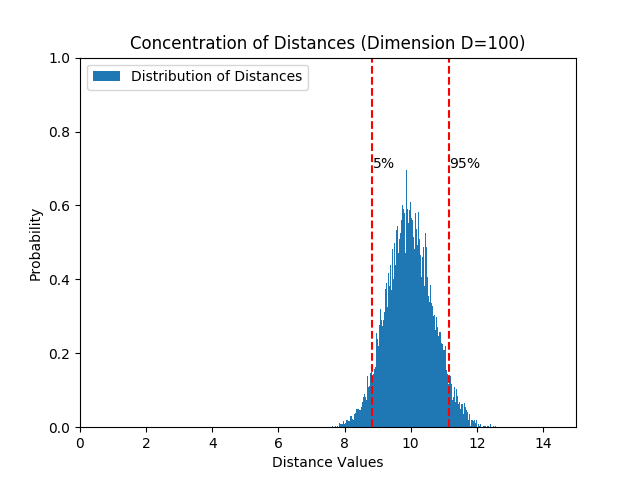
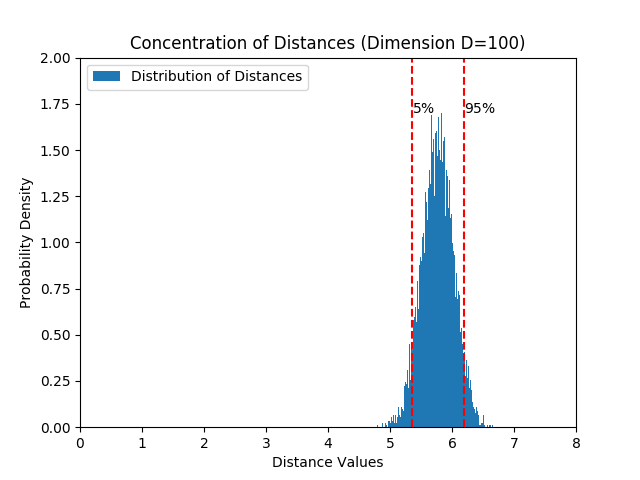
corrected dist in c10

diff --git a/Presentation 1/Code/c10_concentration_of_distances.py b/Presentation 1/Code/c10_concentration_of_distances.py
@@ -12,7 +12,7 @@ df1 = lambda x : get_distances(x,order=2.0)
 
 for dim in dimensions:
 	sigma_data=1.0
-	actual_data = np.random.multivariate_normal( mean=np.zeros(dim), cov=sigma_data**2 * np.eye(dim), size = N ) 
+	actual_data = np.random.uniform(low=0.0, high=1.0, size=(N,dim)) 
 	actual_distances = df1(actual_data) 
 
 	#estimating hyperparameter sigma using thumb rule in paper 
@@ -34,14 +34,14 @@ for dim in dimensions:
 	# ax.plot(dist_vals,kernel_vals2,label="Kernel Values ($\sigma$="+str(sigma2)[:4]+")") 
 	ax.hist(actual_distances,bins=200,density=True,label="Distribution of Distances") 
 	ax.axvline(d_5,ls='--',color='r')
-	ax.text(d_5,0.7,'$5 \\%$')
+	ax.text(d_5,1.7,'$5 \\%$')
 	ax.axvline(d_95,ls='--',color='r')
-	ax.text(d_95,0.7,'$95 \\%$')
+	ax.text(d_95,1.7,'$95 \\%$')
 	ax.set_title("Concentration of Distances (Dimension D="+str(dim)+")")
 	ax.set_xlabel('Distance Values')
-	ax.set_ylabel('Probability')
-	ax.set_ylim(0.0,1.0)
-	ax.set_xlim(0.0,15.0)
+	ax.set_ylabel('Probability Density')
+	ax.set_ylim(0.0,2.0)
+	ax.set_xlim(0.0,8.0)
 	ax.legend() 
 	fig.savefig('../Graphs/g10_concentration_of_dist_dim='+str(dim)+'.png')
 
